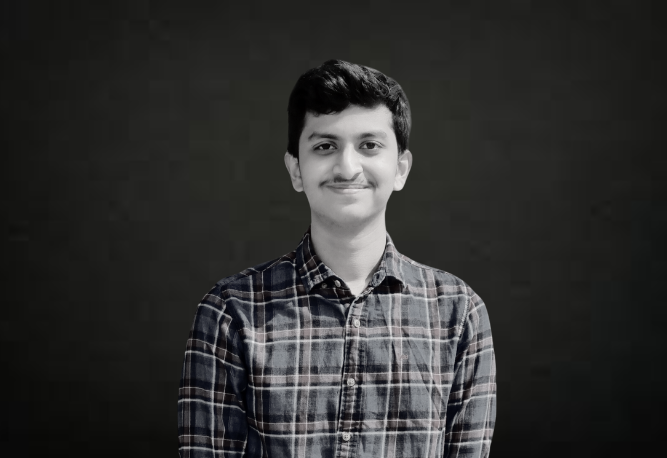
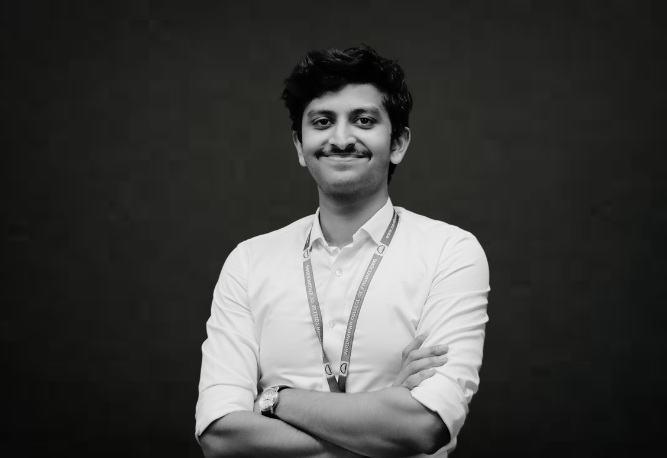
Header & Team

Changed region(s): [[0.2699, 0.0917, 0.7496, 1.0]]

diff --git a/team.html b/team.html
@@ -57,19 +57,26 @@
                                     <li><a href="index.html">Home</a></li>
                                     <li><a href="about.html">About</a></li>
                                     <li><a href="">Speakers</a></li>
+                                    <li><a href="#">Team</a>
+                                        <ul>
+                                            <li><a href="team.html">Organizing Committee</a></li>
+                                            <li><a href="faculty.html">Faculty Advisors</a></li>
+                                        </ul>
+                                    </li>
+                                    <li><a href="#venue">Venue</a></li>
                                     <li><a href="gallery.html">Gallery</a></li>
+                                    <!-- <li><a href="#section-gallery">Gallery</a></li> -->
                                     <li><a href="#">Past Seasons</a>
                                         <ul>
                                             <li><a href="season3\index.html">Season 3</a></li>
-
                                         </ul>
                                     </li>
                                 </ul>
                             </div>
                             <div class="de-flex-col">
                                 <div class="menu_side_area">
-                                    <a href="index.html#section-tickets" class="btn-main"><i
-                                            class="fa fa-sign-in"></i><span>Buy Ticket</span></a>
+                                    <a href="#section-tickets" class="btn-main"><i class="fa fa-sign-in"></i><span>Buy
+                                            Ticket</span></a>
                                     <span id="menu-btn"></span>
                                 </div>
                             </div>
@@ -205,7 +212,7 @@
                                 <div class="d-content">
                                     <div class="d-text" style="background-color: #52080C;">
                                         <div class="d-image">
-                                            <span class="d-image-wrap"><img alt="" src="images/team/dummy.jpg"
+                                            <span class="d-image-wrap"><img alt="" src="images/team/23.png"
                                                     class="lazy"></span>
                                         </div>
                                         <center>
@@ -235,7 +242,7 @@
                                 <div class="d-content">
                                     <div class="d-text"style="background-color: #52080C;">
                                         <div class="d-image">
-                                            <span class="d-image-wrap"><img alt="" src="images/team/dummy.jpg"
+                                            <span class="d-image-wrap"><img alt="" src="images/team/1.png"
                                                     class="lazy"></span>
                                         </div>
                                         <center>
@@ -316,7 +323,7 @@
                                 <div class="d-content">
                                     <div class="d-text">
                                         <div class="d-image">
-                                            <span class="d-image-wrap"><img alt="" src="images/team/dummy.jpg"
+                                            <span class="d-image-wrap"><img alt="" src="images/team/2.png"
                                                     class="lazy"></span>
                                         </div>
                                         <center>
@@ -345,7 +352,7 @@
                                 <div class="d-content">
                                     <div class="d-text" >
                                         <div class="d-image">
-                                            <span class="d-image-wrap"><img alt="" src="images/team/dummy.jpg"
+                                            <span class="d-image-wrap"><img alt="" src="images/team/4.png"
                                                     class="lazy"></span>
                                         </div>
                                         <center>
@@ -508,7 +515,7 @@
                                 <div class="d-content">
                                     <div class="d-text">
                                         <div class="d-image">
-                                            <span class="d-image-wrap"><img alt="" src="images/team/dummy.jpg"
+                                            <span class="d-image-wrap"><img alt="" src="images/team/17.png"
                                                     class="lazy"></span>
                                         </div>
                                         <center>
@@ -537,7 +544,7 @@
                                 <div class="d-content">
                                     <div class="d-text" >
                                         <div class="d-image">
-                                            <span class="d-image-wrap"><img alt="" src="images/team/dummy.jpg"
+                                            <span class="d-image-wrap"><img alt="" src="images/team/15.png"
                                                     class="lazy"></span>
                                         </div>
                                         <center>
@@ -844,7 +851,7 @@
                                                 <div class="social-icons">
                                                     <a href="#"><i class="fa fa-envelope-o fa-lg"></i></a>
                                                     <a href="#"><i class="fa fa-linkedin fa-lg"></i></a>
-                                                    <a href="#"><i class="fa fa-instagram fa-lg"></i></a>
+                                                    <a href="#"><i class="fa fa-github fa-lg"></i></a>
                                                     <!-- <a href="#"><i class="fa fa-twitter fa-lg"></i></a> -->
                                                 </div>
                                             </div>
@@ -921,7 +928,7 @@
                                 <div class="d-content">
                                     <div class="d-text" style="background-color: #52080C;">
                                         <div class="d-image">
-                                            <span class="d-image-wrap"><img alt="" src="images/team/dummy.jpg"
+                                            <span class="d-image-wrap"><img alt="" src="images/team/21.png"
                                                     class="lazy"></span>
                                         </div>
                                         <center>
@@ -966,7 +973,7 @@
                                 <div class="d-content">
                                     <div class="d-text" style="background-color: #52080C;">
                                         <div class="d-image">
-                                            <span class="d-image-wrap"><img alt="" src="images/team/dummy.jpg"
+                                            <span class="d-image-wrap"><img alt="" src="images/team/3.png"
                                                     class="lazy"></span>
                                         </div>
                                         <center>
@@ -1152,7 +1159,7 @@
                                 <div class="d-content">
                                     <div class="d-text">
                                         <div class="d-image">
-                                            <span class="d-image-wrap"><img alt="" src="images/team/dummy.jpg"
+                                            <span class="d-image-wrap"><img alt="" src="images/team/10.png"
                                                     class="lazy"></span>
                                         </div>
                                         <center>
@@ -1178,9 +1185,9 @@
                         <div class="col-lg-4 col-md-6 mb20">
                             <div class="de-event-item">
                                 <div class="d-content">
-                                    <div class="d-text" style="background-color: #52080C;">
+                                    <div class="d-text">
                                         <div class="d-image">
-                                            <span class="d-image-wrap"><img alt="" src="images/team/dummy.jpg"
+                                            <span class="d-image-wrap"><img alt="" src="images/team/9.png"
                                                     class="lazy"></span>
                                         </div>
                                         <center>

diff --git a/contact.html b/contact.html
@@ -55,39 +55,29 @@
                             <div class="de-flex-col header-col-mid">
                                 <!-- mainmenu begin -->
                                 <ul id="mainmenu">
-                                    <li><a href="index.html">Home</a>
+                                    <li><a href="index.html">Home</a></li>
+                                    <li><a href="about.html">About</a></li>
+                                    <li><a href="">Speakers</a></li>
+                                    <li><a href="#">Team</a>
                                         <ul>
-                                            <li><a href="index.html">Rockfest</a></li>
-                                            <li><a href="02_djfest-index.html">DJFest</a></li>
-                                            <li><a href="03_electrofest-index.html">Electrofest</a></li>
+                                            <li><a href="team.html">Organizing Committee</a></li>
+                                            <li><a href="faculty.html">Faculty Advisors</a></li>
                                         </ul>
                                     </li>
-                                    <li><a href="index.html#section-artists">Artists</a></li>
-                                    <li><a href="index.html#section-schedule">Schedule</a></li>
-                                    <li><a href="index.html#section-tickets">Tickets</a></li>
-                                    <li><a href="index.html#section-gallery">Gallery</a></li>
-                                    <li><a href="#">Pages</a>
+                                    <li><a href="#venue">Venue</a></li>
+                                    <li><a href="gallery.html">Gallery</a></li>
+                                    <!-- <li><a href="#section-gallery">Gallery</a></li> -->
+                                    <li><a href="#">Past Seasons</a>
                                         <ul>
-                                            <li><a href="01_rockfest-blog.html">Blog</a></li>
-                                            <li><a href="01_rockfest-contact.html">Contact</a></li>
-                                            <li><a href="01_rockfest-gallery.html">Gallery</a></li>
-                                        </ul>
-                                    </li>
-                                    <li><a href="#">Elements</a>
-                                        <ul>
-                                            <li><a href="icons-elegant.html">Icons Elegant</a></li>
-                                            <li><a href="icons-etline.html">Icons Etline</a></li>
-                                            <li><a href="icons-font-awesome.html">Icons Font Awesome</a></li>
-                                            <li><a href="popover.html">Popover</a></li>
-                                            <li><a href="tabs.html">Tabs</a></li>
-                                            <li><a href="tooltips.html">Tooltips</a></li>
+                                            <li><a href="season3\index.html">Season 3</a></li>
                                         </ul>
                                     </li>
                                 </ul>
                             </div>
                             <div class="de-flex-col">
                                 <div class="menu_side_area">
-                                    <a href="index.html#section-tickets" class="btn-main"><i class="fa fa-sign-in"></i><span>Buy Ticket</span></a>
+                                    <a href="#section-tickets" class="btn-main"><i class="fa fa-sign-in"></i><span>Buy
+                                            Ticket</span></a>
                                     <span id="menu-btn"></span>
                                 </div>
                             </div>

diff --git a/blog.html b/blog.html
@@ -56,25 +56,27 @@
                                 <ul id="mainmenu">
                                     <li><a href="index.html">Home</a></li>
                                     <li><a href="about.html">About</a></li>
+                                    <li><a href="">Speakers</a></li>
                                     <li><a href="#">Team</a>
                                         <ul>
                                             <li><a href="team.html">Organizing Committee</a></li>
                                             <li><a href="faculty.html">Faculty Advisors</a></li>
                                         </ul>
                                     </li>
+                                    <li><a href="#venue">Venue</a></li>
                                     <li><a href="gallery.html">Gallery</a></li>
+                                    <!-- <li><a href="#section-gallery">Gallery</a></li> -->
                                     <li><a href="#">Past Seasons</a>
                                         <ul>
                                             <li><a href="season3\index.html">Season 3</a></li>
-
                                         </ul>
                                     </li>
                                 </ul>
                             </div>
                             <div class="de-flex-col">
                                 <div class="menu_side_area">
-                                    <a href="index.html#section-tickets" class="btn-main"><i
-                                            class="fa fa-sign-in"></i><span>Buy Ticket</span></a>
+                                    <a href="#section-tickets" class="btn-main"><i class="fa fa-sign-in"></i><span>Buy
+                                            Ticket</span></a>
                                     <span id="menu-btn"></span>
                                 </div>
                             </div>
@@ -109,7 +111,7 @@
             <section aria-label="section">
                 <div class="container">
                     <div class="row g-custom-x">
-                        <div class="col-lg-5 col-md-7 mb20">
+                        <div class="col-lg-5 col-md-8 mb20">
                             <div class="de-event-item">
                                 <div class="d-content">
                                     <div class="d-text">
@@ -162,11 +164,10 @@
                                 <div class="d-content">
                                     <div class="d-text">
                                         <div class="d-image">
-                                            <span class="d-image-wrap"><img alt="" src="images/gallery/s1.jpg"
+                                            <span class="d-image-wrap"><img alt="" src="images/speakers/3.jpg" height="fit-content"
                                                     class="lazy"></span>
                                         </div>
-                                        <h4>Hematochezia nonpurchase alilonghi funt Istiophorus victualer incunabula
-                                        </h4>
+                                        <h4>Alladi Prabhakar</h4>
                                         <p>Dolore officia sint incididunt non excepteur ea mollit commodo ut enim
                                             reprehenderit cupidatat labore ad laborum consectetur consequat...</p>
                                     </div>

diff --git a/faculty.html b/faculty.html
@@ -54,7 +54,7 @@
                             <div class="de-flex-col header-col-mid">
                                 <!-- mainmenu begin -->
                                 <ul id="mainmenu">
-                                    <li><a href="#de-carousel">Home</a></li>
+                                    <li><a href="index.html">Home</a></li>
                                     <li><a href="about.html">About</a></li>
                                     <li><a href="">Speakers</a></li>
                                     <li><a href="#">Team</a>
@@ -75,8 +75,8 @@
                             </div>
                             <div class="de-flex-col">
                                 <div class="menu_side_area">
-                                    <a href="index.html#section-tickets" class="btn-main"><i
-                                            class="fa fa-sign-in"></i><span>Buy Ticket</span></a>
+                                    <a href="#section-tickets" class="btn-main"><i class="fa fa-sign-in"></i><span>Buy
+                                            Ticket</span></a>
                                     <span id="menu-btn"></span>
                                 </div>
                             </div>
@@ -260,7 +260,7 @@
                                 <div class="d-content">
                                     <div class="d-text"style="background-color: #52080C;">
                                         <div class="d-image">
-                                            <span class="d-image-wrap"><img alt="" src="images/team/dummy.jpg"
+                                            <span class="d-image-wrap"><img alt="" src="images/team/22.png"
                                                     class="lazy"></span>
                                         </div>
                                         <center>
@@ -327,7 +327,7 @@
                                 <div class="d-content">
                                     <div class="d-text" style="background-color: #52080C;">
                                         <div class="d-image">
-                                            <span class="d-image-wrap"><img alt="" src="images/team/dummy.jpg"
+                                            <span class="d-image-wrap"><img alt="" src="images/team/19.png"
                                                     class="lazy"></span>
                                         </div>
                                         <center>
@@ -356,7 +356,7 @@
                                 <div class="d-content">
                                     <div class="d-text" style="background-color: #52080C;">
                                         <div class="d-image">
-                                            <span class="d-image-wrap"><img alt="" src="images/team/dummy.jpg"
+                                            <span class="d-image-wrap"><img alt="" src="images/team/20.png"
                                                     class="lazy"></span>
                                         </div>
                                         <center>

diff --git a/gallery.html b/gallery.html
@@ -54,25 +54,28 @@
                                 <!-- mainmenu begin -->
                                 <ul id="mainmenu">
                                     <li><a href="index.html">Home</a></li>
-                                    <li><a href="gallery.html">About</a></li>
+                                    <li><a href="about.html">About</a></li>
+                                    <li><a href="">Speakers</a></li>
                                     <li><a href="#">Team</a>
                                         <ul>
                                             <li><a href="team.html">Organizing Committee</a></li>
                                             <li><a href="faculty.html">Faculty Advisors</a></li>
                                         </ul>
                                     </li>
-                                    <li><a href="">Speakers</a></li>
+                                    <li><a href="#venue">Venue</a></li>
+                                    <li><a href="gallery.html">Gallery</a></li>
+                                    <!-- <li><a href="#section-gallery">Gallery</a></li> -->
                                     <li><a href="#">Past Seasons</a>
                                         <ul>
                                             <li><a href="season3\index.html">Season 3</a></li>
-
                                         </ul>
                                     </li>
                                 </ul>
                             </div>
                             <div class="de-flex-col">
                                 <div class="menu_side_area">
-                                    <a href="index.html#section-tickets" class="btn-main"><i class="fa fa-sign-in"></i><span>Buy Ticket</span></a>
+                                    <a href="#section-tickets" class="btn-main"><i class="fa fa-sign-in"></i><span>Buy
+                                            Ticket</span></a>
                                     <span id="menu-btn"></span>
                                 </div>
                             </div>

diff --git a/about.html b/about.html
@@ -55,26 +55,28 @@
                                 <!-- mainmenu begin -->
                                 <ul id="mainmenu">
                                     <li><a href="index.html">Home</a></li>
+                                    <li><a href="about.html">About</a></li>
+                                    <li><a href="">Speakers</a></li>
                                     <li><a href="#">Team</a>
                                         <ul>
                                             <li><a href="team.html">Organizing Committee</a></li>
                                             <li><a href="faculty.html">Faculty Advisors</a></li>
                                         </ul>
                                     </li>
-                                    <li><a href="">Speakers</a></li>
+                                    <li><a href="#venue">Venue</a></li>
                                     <li><a href="gallery.html">Gallery</a></li>
+                                    <!-- <li><a href="#section-gallery">Gallery</a></li> -->
                                     <li><a href="#">Past Seasons</a>
                                         <ul>
                                             <li><a href="season3\index.html">Season 3</a></li>
-
                                         </ul>
                                     </li>
                                 </ul>
                             </div>
                             <div class="de-flex-col">
                                 <div class="menu_side_area">
-                                    <a href="index.html#section-tickets" class="btn-main"><i
-                                            class="fa fa-sign-in"></i><span>Buy Ticket</span></a>
+                                    <a href="#section-tickets" class="btn-main"><i class="fa fa-sign-in"></i><span>Buy
+                                            Ticket</span></a>
                                     <span id="menu-btn"></span>
                                 </div>
                             </div>

diff --git a/index.html b/index.html
@@ -734,7 +734,7 @@
                                 </div>
                                 <div class="mid text-center bg-color-secondary text-light">
                                     <p class="price">
-                                        <span class="currency">$</span>
+                                        <span class="currency">₹</span>
                                         <span class="m opt-1">500</span>
                                     </p>
                                 </div>
